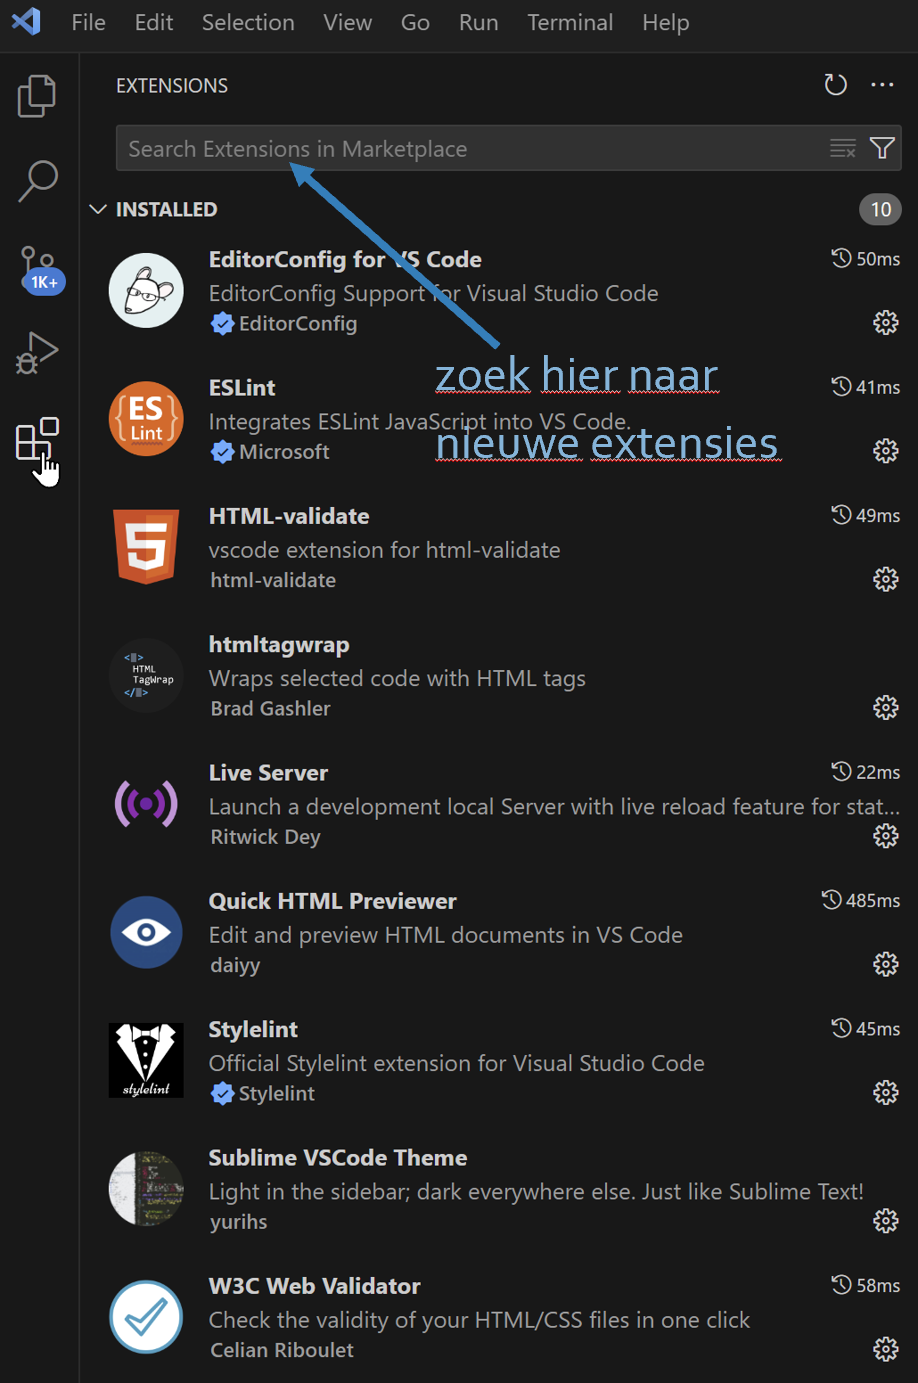
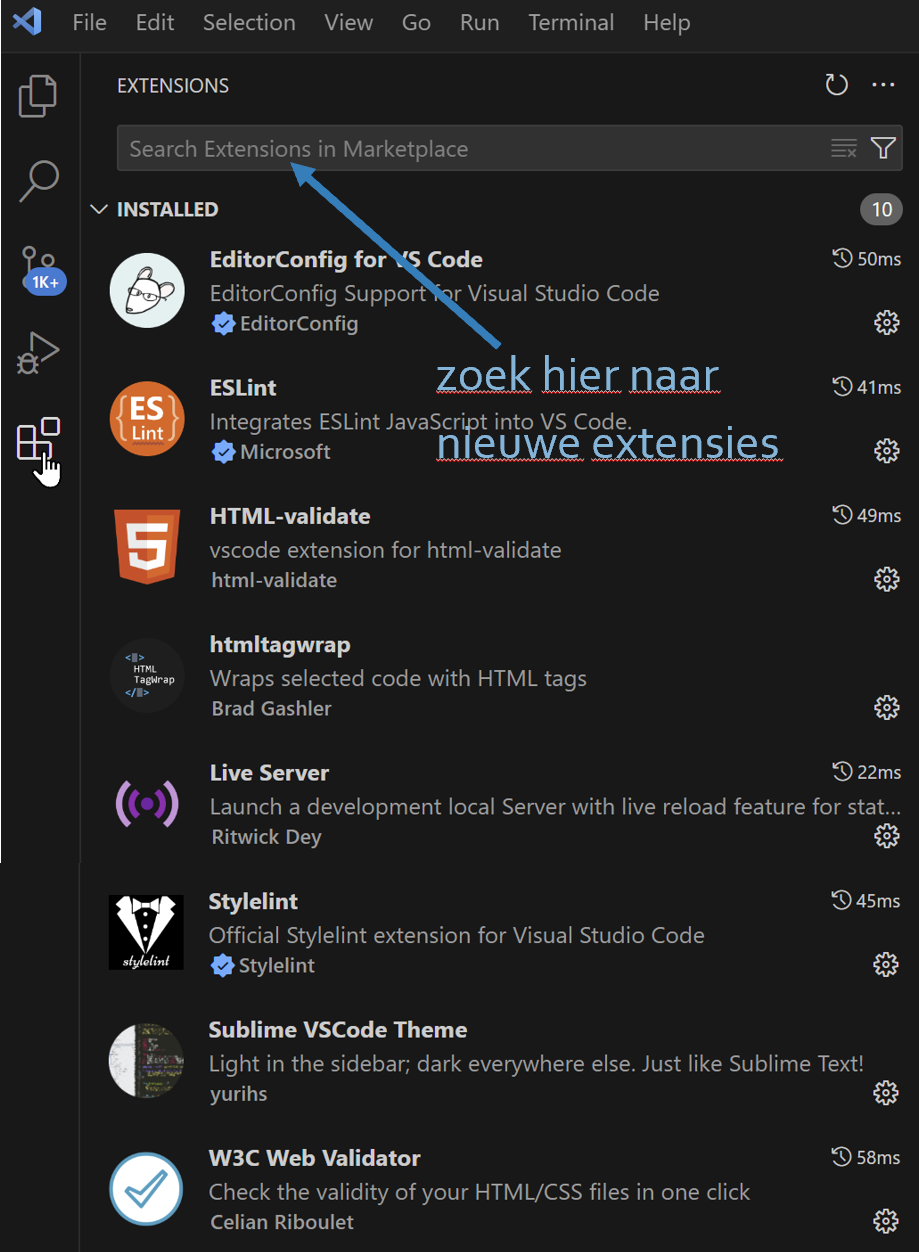
Quick Previewer eruit

diff --git a/02_vscode.html b/02_vscode.html
@@ -75,7 +75,6 @@
          <li>HTML-validate</li>
          <li>htmltagwrap</li>
          <li>Live Server</li>
-         <li>Quick HTML Previewer</li>
          <li>Stylelint</li>
          <li>W3C Web Validator</li>
       </ol>
@@ -184,12 +183,7 @@
          <li><em>vendor</em>: externe bestanden en plugins als lightbox, carousel...</li>
          <li>...</li>
       </ul>
-      <p>Werk tenslotte de opgave uit. Indien nodig, maak je nog extra submappen aan, b.v. voor afbeeldingen, CSS, fonts enz... Let er op dat alle resources correct gelinkt zijn:</p>
-      <figure>
-         <img src="img/02_vscode/live preview.png" alt="" class="w-1200">
-         <figcaption>uitwerking oefening met Live Preview</figcaption>
-      </figure>
-      <p>VS Code herkent een git repository en geeft in kleur aan welke veranderingen er zijn sinds de laatste commit:</p>
+      <p>Werk tenslotte de opgave uit. Indien nodig, maak je nog extra submappen aan, b.v. voor afbeeldingen, CSS, fonts enz... VS Code herkent een git repository en geeft in kleur aan welke veranderingen er zijn sinds de laatste commit:</p>
       <figure>
          <img src="img/03_github/vscode integratie.png" alt="" class="w-800">
       </figure>
@@ -212,29 +206,7 @@
 
 
       <h2>Live previewen</h2>
-      <p>Er zijn twee manieren om je werk te bekijken tijdens het werken:</p>
-      <ul>
-         <li><strong>Preview</strong>, standaard ingebouwd in VS Code: weergave in VS Code (zie screenshot hierboven)</li>
-         <li><strong>Live Server</strong> via de Live Server extensie: weergave in de browser met live update</li>
-      </ul>
-      <figure>
-         <img src="img/02_vscode/preview live.png" alt="" class="w-800">
-      </figure>
-      <h3>VS Code Preview</h3>
-      <p>De previewfunctie toont de pagina in VS Code in een tabblad:</p>
-      <figure>
-         <img src="img/02_vscode/live preview.png" alt="" class="w-600">
-         <figcaption>VS Code Preview</figcaption>
-      </figure>
-
-      <p>Het heeft een paar belangrijke beperkingen:</p>
-      <ul class="wrong">
-         <li><strong>werkt niet goed</strong> voor complexere CSS of Javascript</li>
-         <li>previewvenster is eigenlijk <strong>te klein</strong> om bruikbaar te zijn</li>
-         <li><strong>geen debugging</strong> mogelijkheden zoals developer tools in browsers</li>
-      </ul>
-      <h3>Live Server extensie</h3>
-      <p>Wegens de beperkingen van de previewfunctie, gebruik je &mdash; tenzij misschien voor snelle previews &mdash; <em>altijd</em> de <mark>Live Server</mark>. Je pagina zal openen in de browser, en elke keer als je opslaat bijgewerkt worden. Een voorbeeld van een correcte setup, met je code op je laptop en de live server op een externe monitor:</p>
+      <p>De <mark>Live Server</mark> opent je pagina in de browser; elke keer als je opslaat wordt de pagina automatisch bijgewerkt. Een voorbeeld van een correcte setup, met je code op je laptop en de live server op een externe monitor:</p>
       <figure>
          <img src="img/02_vscode/laptop en monitor.jpg" alt="" class="w-800">
          <figcaption>correcte setup: code op je laptop, live server op een externe monitor</figcaption>

diff --git a/common/css/mods.css b/common/css/mods.css
@@ -1,3 +1,7 @@
+a.token {
+	color: #a6e22e;
+}
+
 pre {
 	position: relative;
 }
